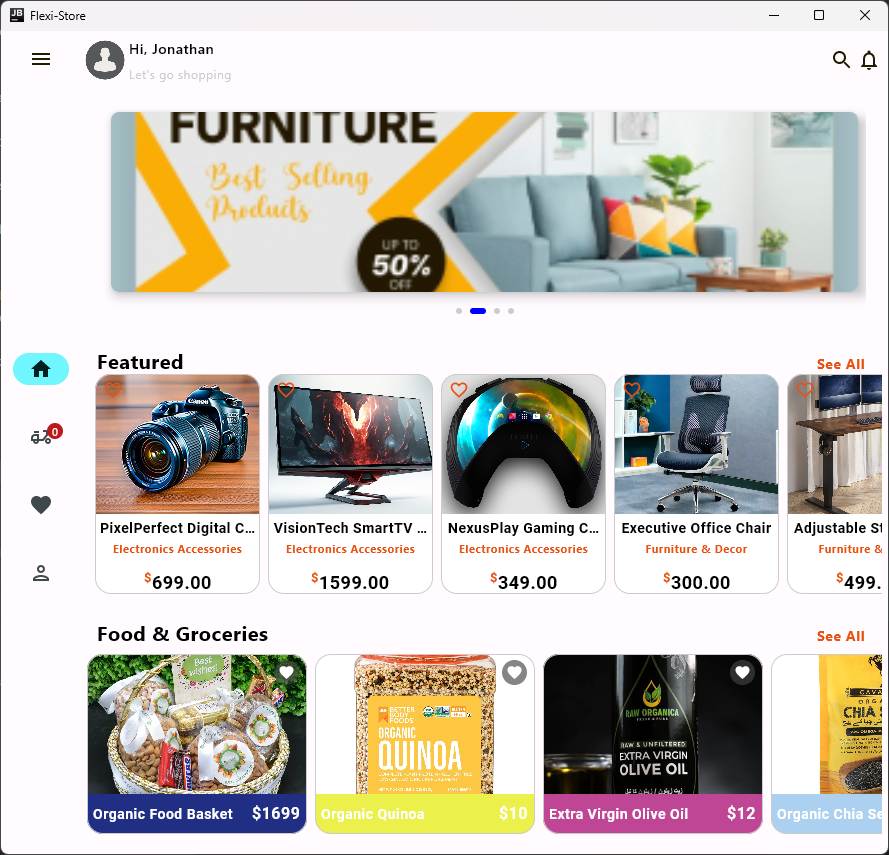
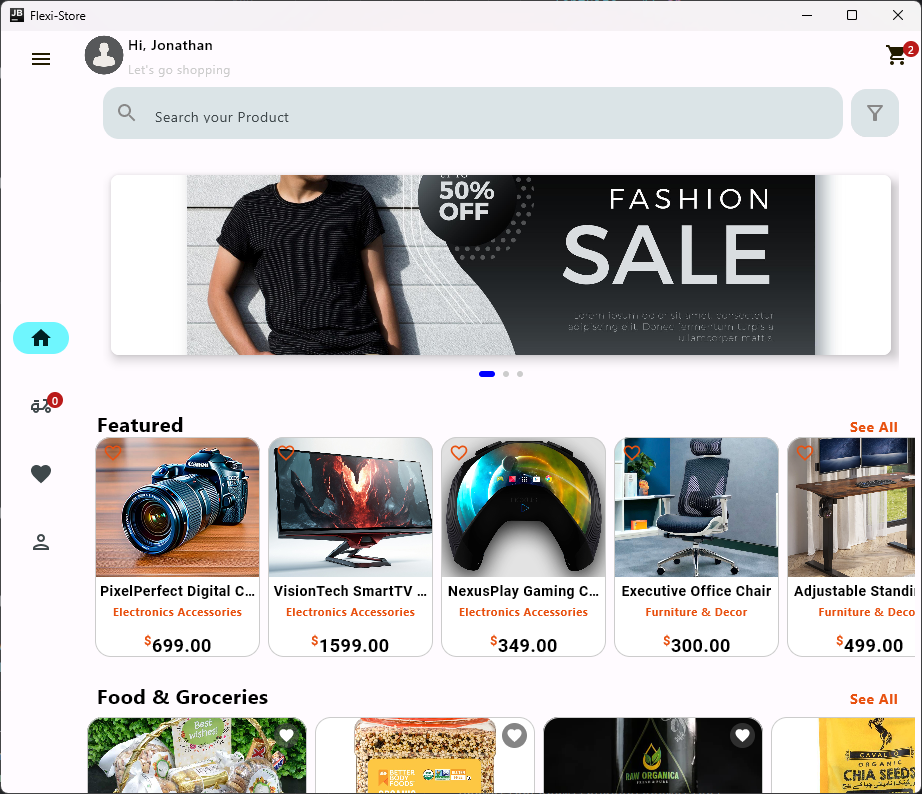
-Home UI Enhancement (#278)

diff --git a/composeApp/src/commonMain/kotlin/org/flexi/app/presentation/ui/screens/home/HomeScreen.kt b/composeApp/src/commonMain/kotlin/org/flexi/app/presentation/ui/screens/home/HomeScreen.kt
@@ -64,6 +64,7 @@ import org.flexi.app.presentation.ui.components.ProductList
 import org.flexi.app.presentation.ui.components.PromotionCardWithPager
 import org.flexi.app.presentation.ui.components.TopAppBarWithProfile
 import org.flexi.app.presentation.viewmodels.MainViewModel
+import org.flexi.app.theme.LocalThemeIsDark
 import org.koin.compose.koinInject
 
 class HomeScreen : Screen {
@@ -148,12 +149,15 @@ class HomeScreen : Screen {
                 booksList = response
             }
         }
+        var isDark by LocalThemeIsDark.current
         Scaffold(
             modifier = Modifier.fillMaxWidth(),
             topBar = {
                 TopAppBarWithProfile(
                     name = "Jonathan",
-                    onCartClicked = {},
+                    onCartClicked = {
+                        isDark = !isDark
+                    },
                     profileImageUrl = null,
                     itemCount = 2
                 )
@@ -213,8 +217,7 @@ class HomeScreen : Screen {
                     Card(
                         modifier = Modifier
                             .size(48.dp)
-                            .clip(RoundedCornerShape(16.dp))
-                            .background(Color.Blue),
+                            .clip(RoundedCornerShape(16.dp)),
                         elevation = CardDefaults.cardElevation(8.dp)
                     ) {
                         Icon(

diff --git a/composeApp/src/commonMain/kotlin/org/flexi/app/presentation/ui/components/TopAppBarWithProfile.kt b/composeApp/src/commonMain/kotlin/org/flexi/app/presentation/ui/components/TopAppBarWithProfile.kt
@@ -33,6 +33,7 @@ import androidx.compose.ui.unit.dp
 import io.kamel.core.Resource
 import io.kamel.image.KamelImage
 import io.kamel.image.asyncPainterResource
+import org.flexi.app.theme.LocalThemeIsDark
 
 @Composable
 fun TopAppBarWithProfile(
